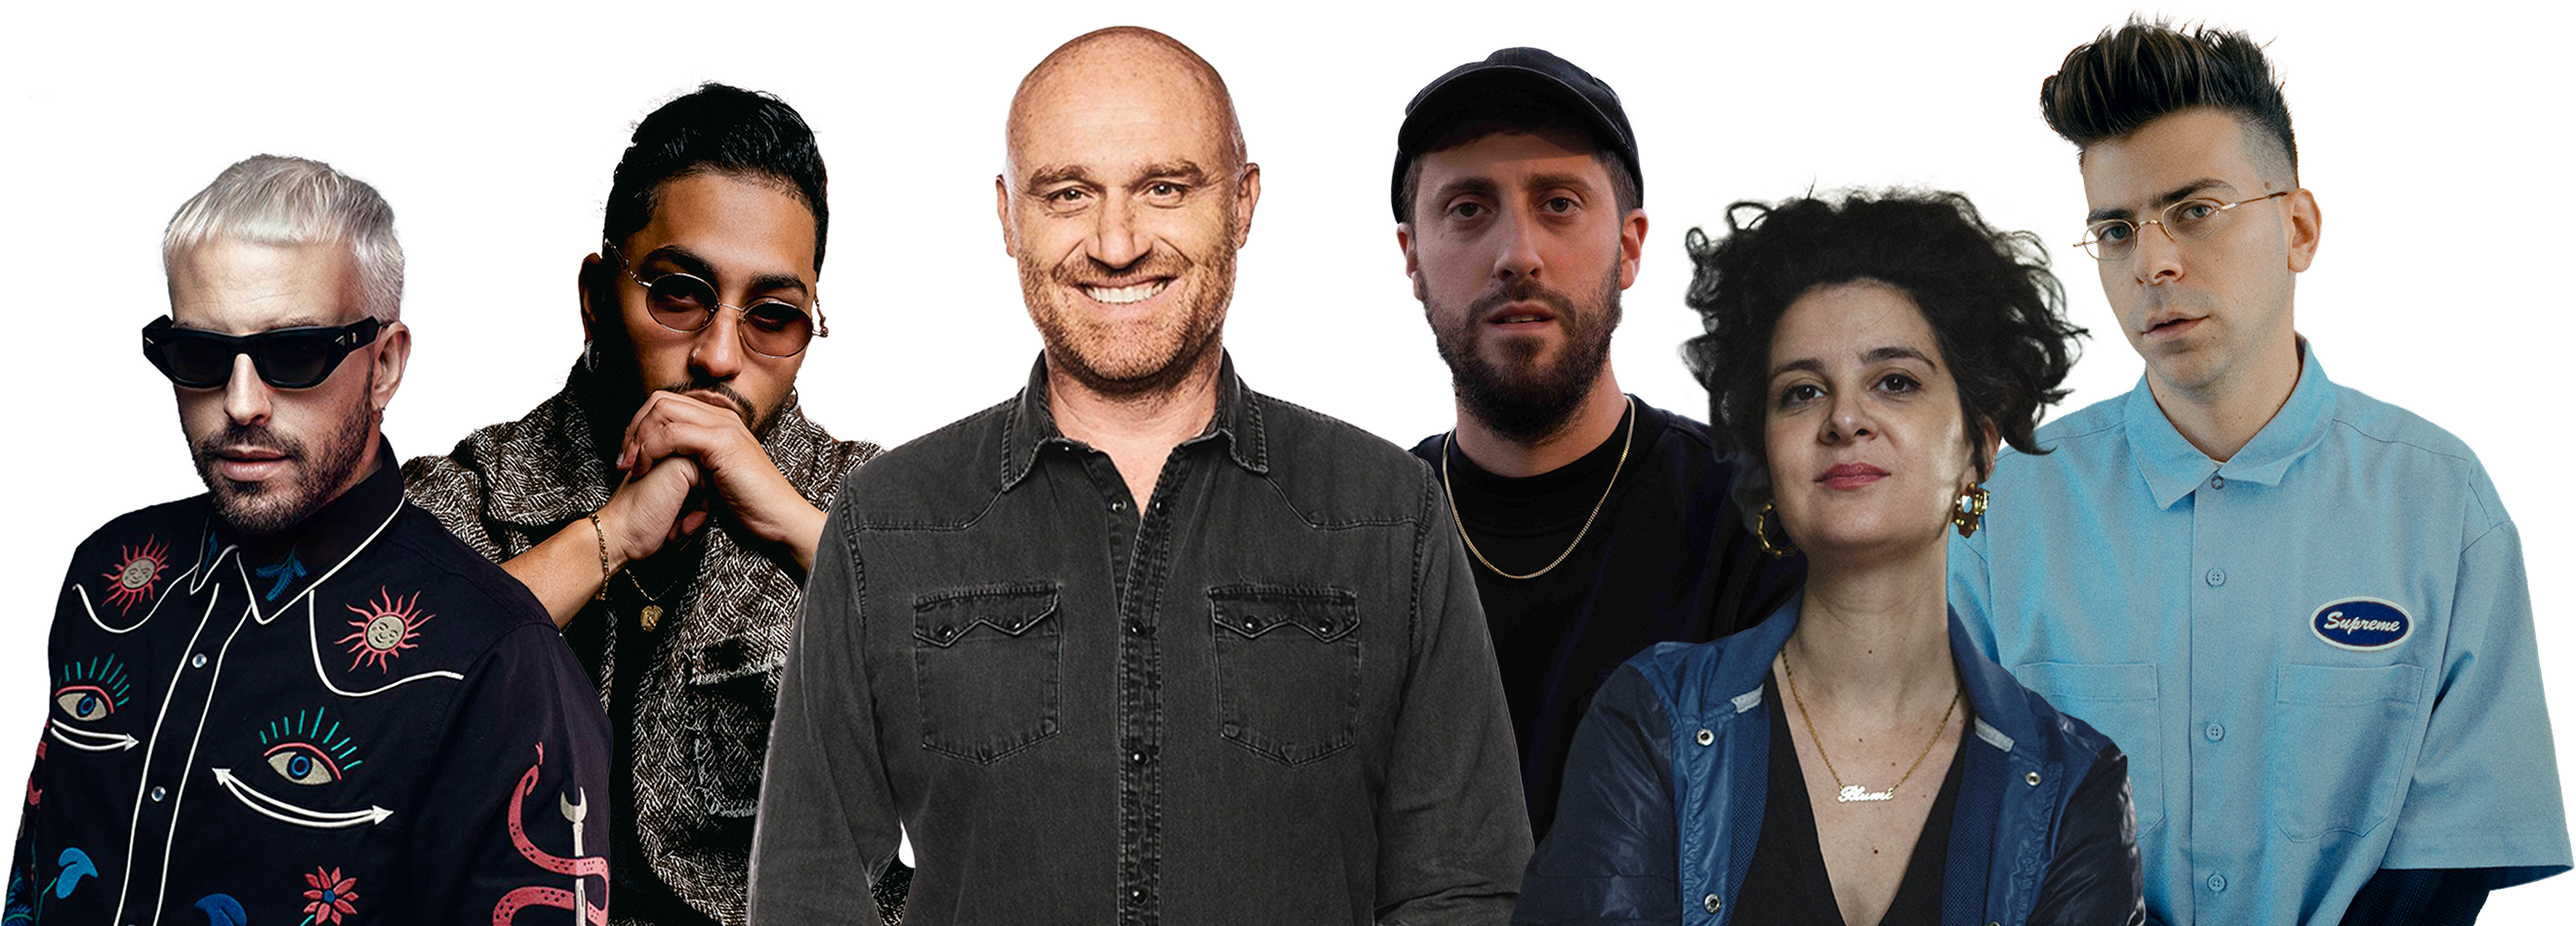
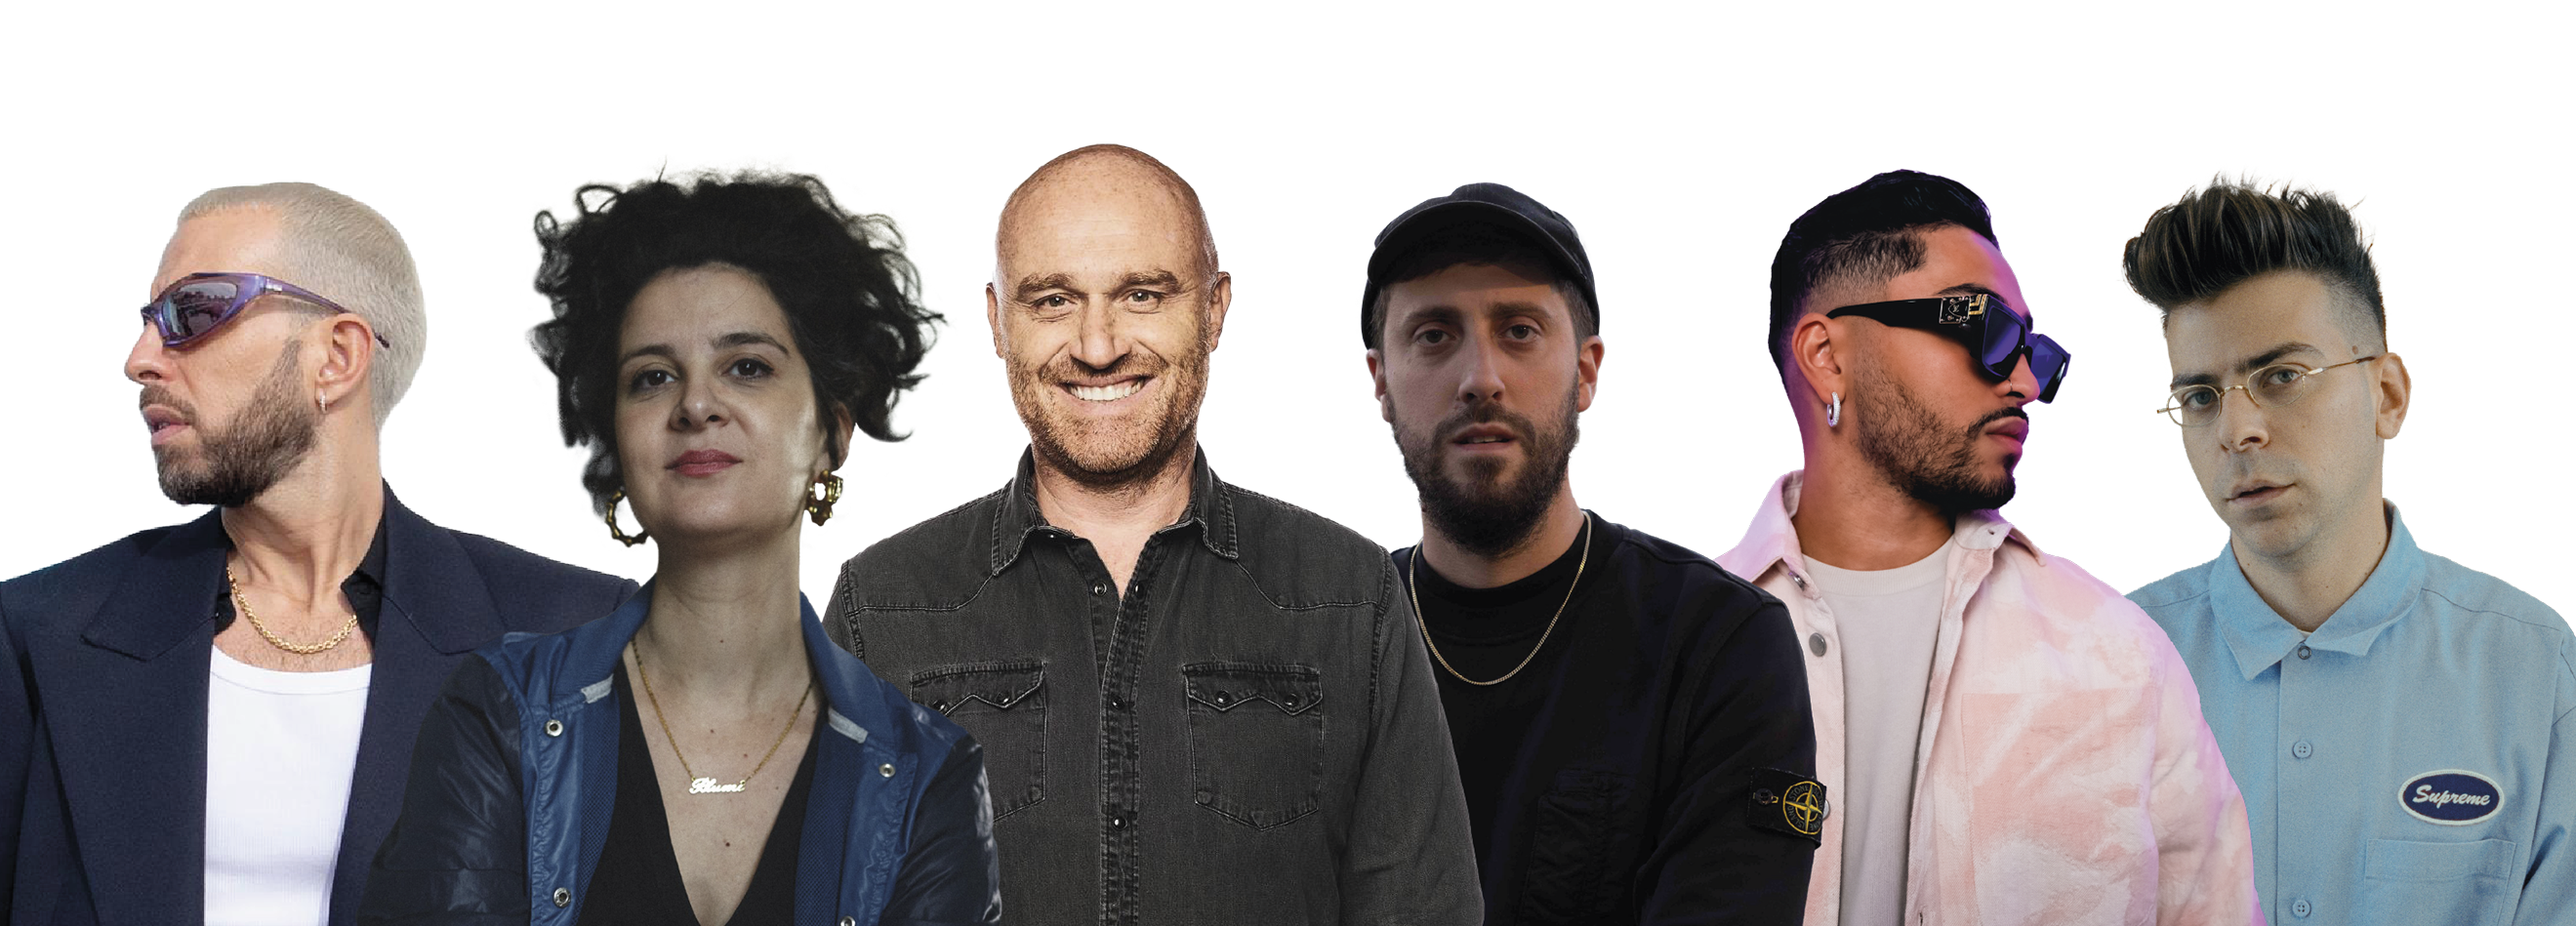
modifica foto

diff --git a/pages/Masterclass.vue b/pages/Masterclass.vue
@@ -52,7 +52,7 @@ const onMapReady = (map) => {
                 </svg>
             </div>
             <div class="flex justify-center items-center">
-                <img class="w-[250px] pt-12" alt="foto di Andry the Hitmaker" src="../assets/ospiti/maggio/andry-02.png">
+                <img class="w-[250px] pt-12" alt="foto di Andry the Hitmaker" src="../assets/ospiti/maggio/andry-new.png">
             </div>
             <div class="col-span-2 text-right pt-6 text-white">
                 <p class="uppercase text-2xl whitespace-nowrap">Andry the Hitmaker</p>
@@ -104,11 +104,13 @@ const onMapReady = (map) => {
                         <p class="text-2xl lg:text-3xl">17 - 19</p>
                     </li>
 
-                    <li class="flex items-start space-x-4 lg:col-span-2">
+                    <li class="flex items-start space-x-4">
                         <img class="w-[28px] lg:w-[38px]" src="../assets/posizione-viola.png" alt="icona luogo">
-                        <div>
-                            <p class="text-2xl lg:text-3xl mb-6">Fondazione Caritro (Trento)</p>
-                        </div>
+                        <p class="text-2xl lg:text-3xl mb-6">Fondazione Caritro (Trento)</p>
+                    </li>
+                    <li class="flex items-start space-x-4">
+                        <a class="" href="https://www.eventbrite.it/e/1096506202569?aff=oddtdtcreator"><img class="w-[30px] lg:w-[38px] -mt-2" src="../assets/biglietto-viola.png" alt="Icona biglietto cartaceo"></a>
+                        <p class="text-2xl -mt-4 lg:text-3xl mb-6">Ingresso su prenotazione</p>
                     </li>
 
                 </ul>

diff --git a/pages/Home.vue b/pages/Home.vue
@@ -10,7 +10,7 @@ import Footer from "../components/Footer.vue";
 import CardMaggio from "../components/Card-maggio.vue";
 import imgZerbi from "../assets/ospiti/rudy-zerbi-def.jpg";
 import imgShablo from "../assets/ospiti/maggio/shablo.png";
-import imgAndry from "../assets/ospiti/maggio/andry.png";
+import imgAndry from "../assets/ospiti/maggio/andry-new.png";
 import imgMasoli from "../assets/ospiti/maggio/masoli.png";
 import imgTripodi from "../assets/ospiti/maggio/tripodi.png";
 import imgNudo from "../assets/ospiti/maggio/nudo.png";
@@ -148,7 +148,7 @@ const onMapReady = (map) => {
 
                     <li class="flex items-start space-x-4">
                         <img class="w-[28px] lg:w-[38px]" src="../assets/orologio-viola.png" alt="Icona orologio">
-                        <p class="text-2xl lg:text-3xl">15</p>
+                        <p class="text-2xl lg:text-3xl">14:30</p>
                     </li>
 
                     <li class="flex items-start space-x-4">

diff --git a/components/Beat.vue b/components/Beat.vue
@@ -6,7 +6,7 @@
     <div style="background-size: auto 100%;" class="h-64 grow-[1] basis-1/6 bg-right bg-repeat-x bg-[url('/assets/masterclass-beat/box03.svg')] hidden sm:block"></div>
     <div style="background-size: auto 100%;" class="h-64 grow-[2] basis-2/6 bg-center bg-repeat-x bg-[url('/assets/masterclass-beat/b2.svg')] sm:block flex flex-col">
         <div class="h-1/2 flex items-end justify-start bg-transparent">
-            <p class="text-[45px] font-medium text-white uppercase">Andry the Hitmaker</p>
+            <p class="md:text-[35px] lg:text-[44px] font-medium text-white uppercase">Andry the Hitmaker</p>
         </div>
         <div class="h-1/2 flex justify-start bg-transparent">
             <p class="text-lg text-white">Produttore musicale<br>
